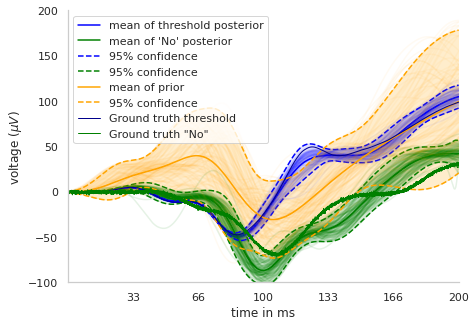
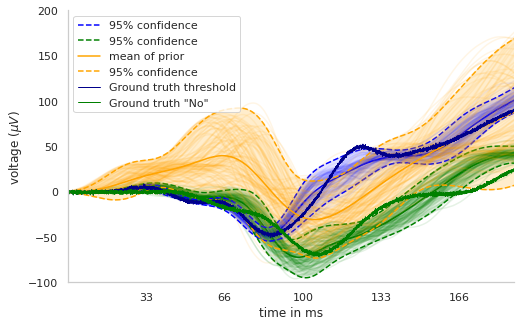
without num sim budget

diff --git a/code/sequential_inference_17params.py b/code/sequential_inference_17params.py
@@ -213,8 +213,8 @@ def main(argv):
         theta, x_without = inference.run_sim_theta_x(
             prior1, 
             sim_wrapper,
-            num_simulations=int(num_sim*(1/30)),
-            #num_simulations = num_sim,
+            #num_simulations=int(num_sim*(1/30)),
+            num_simulations = num_sim,
             num_workers=num_workers
         )
 
@@ -373,8 +373,8 @@ def main(argv):
         theta, x_without = inference.run_sim_theta_x(
             combined_prior,
             sim_wrapper,
-            num_simulations=int(num_sim*(59/30)),
-            #num_simulations = num_sim,
+            #num_simulations=int(num_sim*(59/30)),
+            num_simulations = num_sim,
             num_workers = num_workers
         )
 
